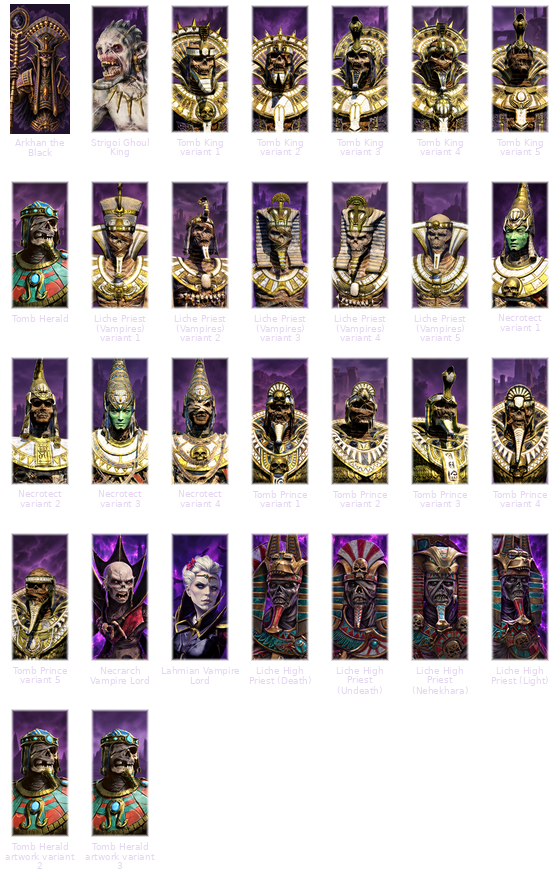
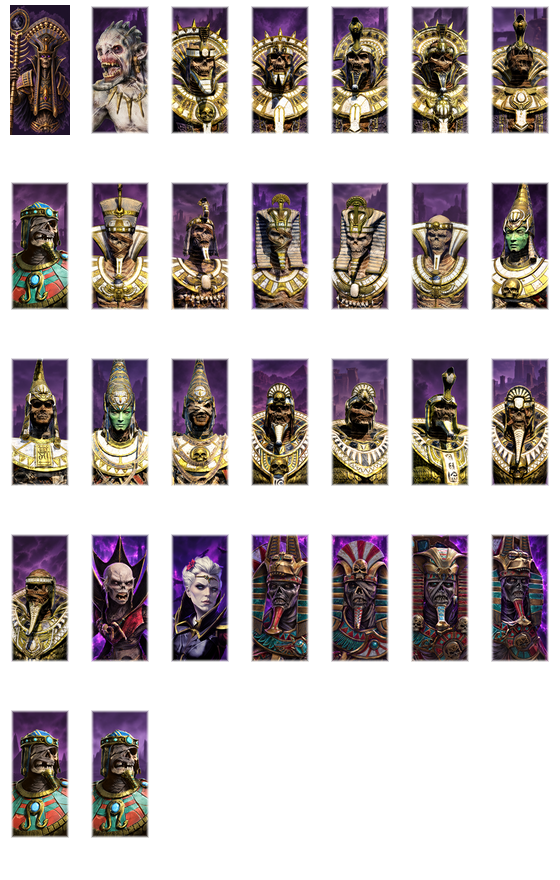
Refresh Workshop galleries with small feathered cards and clean character labels

diff --git a/README.md b/README.md
@@ -22,19 +22,19 @@ This mod adds new technologies, skills and abilities to Lords and Heroes. Arkhan
 
 ## Units
 
-<img src="https://raw.githubusercontent.com/Warhammer-Mods/arkhan_the_black_expanded/5f6be92313175cb45e61a36de331a2766873f757/ui/units/icons/xereus_tmb_inf_skeleton_warriors.png" alt="Skeleton Warriors" title="Skeleton Warriors" /><img src="https://raw.githubusercontent.com/Warhammer-Mods/arkhan_the_black_expanded/5f6be92313175cb45e61a36de331a2766873f757/ui/units/icons/xereus_tmb_inf_skeleton_spearmen.png" alt="Skeleton Spearmen" title="Skeleton Spearmen" /><img src="https://raw.githubusercontent.com/Warhammer-Mods/arkhan_the_black_expanded/5f6be92313175cb45e61a36de331a2766873f757/ui/units/icons/xereus_tmb_inf_skeleton_archers.png" alt="Skeleton Archers" title="Skeleton Archers" /><img src="https://raw.githubusercontent.com/Warhammer-Mods/arkhan_the_black_expanded/5f6be92313175cb45e61a36de331a2766873f757/ui/units/icons/xereus_tmb_inf_nehekhara_warriors.png" alt="Nehekhara Warriors" title="Nehekhara Warriors" /><img src="https://raw.githubusercontent.com/Warhammer-Mods/arkhan_the_black_expanded/5f6be92313175cb45e61a36de331a2766873f757/ui/units/icons/xereus_tmb_inf_tomb_guard.png" alt="Tomb Guard" title="Tomb Guard" /><img src="https://raw.githubusercontent.com/Warhammer-Mods/arkhan_the_black_expanded/5f6be92313175cb45e61a36de331a2766873f757/ui/units/icons/xereus_tmb_inf_tomb_guard_halberd.png" alt="Tomb Guard (Halberds)" title="Tomb Guard (Halberds)" /><img src="https://raw.githubusercontent.com/Warhammer-Mods/arkhan_the_black_expanded/5f6be92313175cb45e61a36de331a2766873f757/ui/units/icons/xereus_tmb_art_screaming_skull_catapult.png" alt="Screaming Skull Catapult" title="Screaming Skull Catapult" /><img src="https://raw.githubusercontent.com/Warhammer-Mods/arkhan_the_black_expanded/5f6be92313175cb45e61a36de331a2766873f757/ui/units/icons/xereus_tmb_mon_ushabti.png" alt="Ushabti" title="Ushabti" /><img src="https://raw.githubusercontent.com/Warhammer-Mods/arkhan_the_black_expanded/5f6be92313175cb45e61a36de331a2766873f757/ui/units/icons/xereus_tmb_mon_ushabti_great.png" alt="Ushabti (Great Bows)" title="Ushabti (Great Bows)" /><img src="https://raw.githubusercontent.com/Warhammer-Mods/arkhan_the_black_expanded/5f6be92313175cb45e61a36de331a2766873f757/ui/units/icons/xereus_tmb_cav_necropolis_knights_1.png" alt="Necropolis Knights" title="Necropolis Knights" /><img src="https://raw.githubusercontent.com/Warhammer-Mods/arkhan_the_black_expanded/5f6be92313175cb45e61a36de331a2766873f757/ui/units/icons/xereus_tmb_cav_necropolis_knights_2.png" alt="Necropolis Knights (Halberds)" title="Necropolis Knights (Halberds)" /><img src="https://raw.githubusercontent.com/Warhammer-Mods/arkhan_the_black_expanded/5f6be92313175cb45e61a36de331a2766873f757/ui/units/icons/xereus_tmb_mon_tomb_scorpion.png" alt="Tomb Scorpion" title="Tomb Scorpion" /><img src="https://raw.githubusercontent.com/Warhammer-Mods/arkhan_the_black_expanded/5f6be92313175cb45e61a36de331a2766873f757/ui/units/icons/xereus_tmb_mon_necrosphinx.png" alt="Necrosphinx" title="Necrosphinx" /><img src="https://raw.githubusercontent.com/Warhammer-Mods/arkhan_the_black_expanded/5f6be92313175cb45e61a36de331a2766873f757/ui/units/icons/xereus_tmb_mon_heirotitan.png" alt="Hierotitan" title="Hierotitan" /><img src="https://raw.githubusercontent.com/Warhammer-Mods/arkhan_the_black_expanded/5f6be92313175cb45e61a36de331a2766873f757/ui/units/icons/xereus_tmb_mon_khemrian_warsphinx.png" alt="Khemrian Warsphinx" title="Khemrian Warsphinx" /><img src="https://raw.githubusercontent.com/Warhammer-Mods/arkhan_the_black_expanded/5f6be92313175cb45e61a36de331a2766873f757/ui/units/icons/xereus_tmb_inf_grave_guard.png" alt="Grave Guard" title="Grave Guard" /><img src="https://raw.githubusercontent.com/Warhammer-Mods/arkhan_the_black_expanded/5f6be92313175cb45e61a36de331a2766873f757/ui/units/icons/xereus_tmb_inf_grave_guard_great.png" alt="Grave Guard (Great Weapons)" title="Grave Guard (Great Weapons)" /><img src="https://raw.githubusercontent.com/Warhammer-Mods/arkhan_the_black_expanded/5f6be92313175cb45e61a36de331a2766873f757/ui/units/icons/xereus_tmb_inf_nagashizzar_guard.png" alt="Nagashizzar Guard" title="Nagashizzar Guard" /><img src="https://raw.githubusercontent.com/Warhammer-Mods/arkhan_the_black_expanded/5f6be92313175cb45e61a36de331a2766873f757/ui/units/icons/wh2_dlc09_tmb_inf_cairn_wraiths.png" alt="Cairn Wraiths" title="Cairn Wraiths" /><img src="https://raw.githubusercontent.com/Warhammer-Mods/arkhan_the_black_expanded/5f6be92313175cb45e61a36de331a2766873f757/ui/units/icons/wh2_dlc09_tmb_cav_hexwraiths.png" alt="Hexwraiths" title="Hexwraiths" /><img src="https://raw.githubusercontent.com/Warhammer-Mods/arkhan_the_black_expanded/5f6be92313175cb45e61a36de331a2766873f757/ui/units/icons/xereus_tmb_veh_mortis_engine.png" alt="Mortis Engine" title="Mortis Engine" /><img src="https://raw.githubusercontent.com/Warhammer-Mods/arkhan_the_black_expanded/5f6be92313175cb45e61a36de331a2766873f757/ui/units/icons/wh2_dlc09_tmb_crypt_ghouls.png" alt="Crypt Ghouls" title="Crypt Ghouls" /><img src="https://raw.githubusercontent.com/Warhammer-Mods/arkhan_the_black_expanded/5f6be92313175cb45e61a36de331a2766873f757/ui/units/icons/wh2_dlc09_tmb_mon_crypt_horrors.png" alt="Crypt Horrors" title="Crypt Horrors" /><img src="https://raw.githubusercontent.com/Warhammer-Mods/arkhan_the_black_expanded/5f6be92313175cb45e61a36de331a2766873f757/ui/units/icons/wh2_dlc09_tmb_dire_wolves.png" alt="Dire Wolves" title="Dire Wolves" /><img src="https://raw.githubusercontent.com/Warhammer-Mods/arkhan_the_black_expanded/5f6be92313175cb45e61a36de331a2766873f757/ui/units/icons/wh2_dlc09_tmb_fell_bats.png" alt="Fell Bats" title="Fell Bats" /><img src="https://raw.githubusercontent.com/Warhammer-Mods/arkhan_the_black_expanded/5f6be92313175cb45e61a36de331a2766873f757/ui/units/icons/xereus_tmb_mon_terrorgheist.png" alt="Terrorgheist" title="Terrorgheist" /><img src="https://raw.githubusercontent.com/Warhammer-Mods/arkhan_the_black_expanded/5f6be92313175cb45e61a36de331a2766873f757/ui/units/icons/xereus_tmb_mon_zombie_dragon.png" alt="Zombie Dragon" title="Zombie Dragon" />
+<img src="https://raw.githubusercontent.com/Warhammer-Mods/arkhan_the_black_expanded/develop/docs/images/units/xereus_tmb_inf_skeleton_warriors.png" alt="Skeleton Warriors" title="Skeleton Warriors" /><img src="https://raw.githubusercontent.com/Warhammer-Mods/arkhan_the_black_expanded/develop/docs/images/units/xereus_tmb_inf_skeleton_spearmen.png" alt="Skeleton Spearmen" title="Skeleton Spearmen" /><img src="https://raw.githubusercontent.com/Warhammer-Mods/arkhan_the_black_expanded/develop/docs/images/units/xereus_tmb_inf_skeleton_archers.png" alt="Skeleton Archers" title="Skeleton Archers" /><img src="https://raw.githubusercontent.com/Warhammer-Mods/arkhan_the_black_expanded/develop/docs/images/units/xereus_tmb_inf_nehekhara_warriors.png" alt="Nehekhara Warriors" title="Nehekhara Warriors" /><img src="https://raw.githubusercontent.com/Warhammer-Mods/arkhan_the_black_expanded/develop/docs/images/units/xereus_tmb_inf_tomb_guard.png" alt="Tomb Guard" title="Tomb Guard" /><img src="https://raw.githubusercontent.com/Warhammer-Mods/arkhan_the_black_expanded/develop/docs/images/units/xereus_tmb_inf_tomb_guard_halberd.png" alt="Tomb Guard (Halberds)" title="Tomb Guard (Halberds)" /><img src="https://raw.githubusercontent.com/Warhammer-Mods/arkhan_the_black_expanded/develop/docs/images/units/xereus_tmb_art_screaming_skull_catapult.png" alt="Screaming Skull Catapult" title="Screaming Skull Catapult" /><img src="https://raw.githubusercontent.com/Warhammer-Mods/arkhan_the_black_expanded/develop/docs/images/units/xereus_tmb_mon_ushabti.png" alt="Ushabti" title="Ushabti" /><img src="https://raw.githubusercontent.com/Warhammer-Mods/arkhan_the_black_expanded/develop/docs/images/units/xereus_tmb_mon_ushabti_great.png" alt="Ushabti (Great Bows)" title="Ushabti (Great Bows)" /><img src="https://raw.githubusercontent.com/Warhammer-Mods/arkhan_the_black_expanded/develop/docs/images/units/xereus_tmb_cav_necropolis_knights_1.png" alt="Necropolis Knights" title="Necropolis Knights" /><img src="https://raw.githubusercontent.com/Warhammer-Mods/arkhan_the_black_expanded/develop/docs/images/units/xereus_tmb_cav_necropolis_knights_2.png" alt="Necropolis Knights (Halberds)" title="Necropolis Knights (Halberds)" /><img src="https://raw.githubusercontent.com/Warhammer-Mods/arkhan_the_black_expanded/develop/docs/images/units/xereus_tmb_mon_tomb_scorpion.png" alt="Tomb Scorpion" title="Tomb Scorpion" /><img src="https://raw.githubusercontent.com/Warhammer-Mods/arkhan_the_black_expanded/develop/docs/images/units/xereus_tmb_mon_necrosphinx.png" alt="Necrosphinx" title="Necrosphinx" /><img src="https://raw.githubusercontent.com/Warhammer-Mods/arkhan_the_black_expanded/develop/docs/images/units/xereus_tmb_mon_heirotitan.png" alt="Hierotitan" title="Hierotitan" /><img src="https://raw.githubusercontent.com/Warhammer-Mods/arkhan_the_black_expanded/develop/docs/images/units/xereus_tmb_mon_khemrian_warsphinx.png" alt="Khemrian Warsphinx" title="Khemrian Warsphinx" /><img src="https://raw.githubusercontent.com/Warhammer-Mods/arkhan_the_black_expanded/develop/docs/images/units/xereus_tmb_inf_grave_guard.png" alt="Grave Guard" title="Grave Guard" /><img src="https://raw.githubusercontent.com/Warhammer-Mods/arkhan_the_black_expanded/develop/docs/images/units/xereus_tmb_inf_grave_guard_great.png" alt="Grave Guard (Great Weapons)" title="Grave Guard (Great Weapons)" /><img src="https://raw.githubusercontent.com/Warhammer-Mods/arkhan_the_black_expanded/develop/docs/images/units/xereus_tmb_inf_nagashizzar_guard.png" alt="Nagashizzar Guard" title="Nagashizzar Guard" /><img src="https://raw.githubusercontent.com/Warhammer-Mods/arkhan_the_black_expanded/develop/docs/images/units/wh2_dlc09_tmb_inf_cairn_wraiths.png" alt="Cairn Wraiths" title="Cairn Wraiths" /><img src="https://raw.githubusercontent.com/Warhammer-Mods/arkhan_the_black_expanded/develop/docs/images/units/wh2_dlc09_tmb_cav_hexwraiths.png" alt="Hexwraiths" title="Hexwraiths" /><img src="https://raw.githubusercontent.com/Warhammer-Mods/arkhan_the_black_expanded/develop/docs/images/units/xereus_tmb_veh_mortis_engine.png" alt="Mortis Engine" title="Mortis Engine" /><img src="https://raw.githubusercontent.com/Warhammer-Mods/arkhan_the_black_expanded/develop/docs/images/units/wh2_dlc09_tmb_crypt_ghouls.png" alt="Crypt Ghouls" title="Crypt Ghouls" /><img src="https://raw.githubusercontent.com/Warhammer-Mods/arkhan_the_black_expanded/develop/docs/images/units/wh2_dlc09_tmb_mon_crypt_horrors.png" alt="Crypt Horrors" title="Crypt Horrors" /><img src="https://raw.githubusercontent.com/Warhammer-Mods/arkhan_the_black_expanded/develop/docs/images/units/wh2_dlc09_tmb_dire_wolves.png" alt="Dire Wolves" title="Dire Wolves" /><img src="https://raw.githubusercontent.com/Warhammer-Mods/arkhan_the_black_expanded/develop/docs/images/units/wh2_dlc09_tmb_fell_bats.png" alt="Fell Bats" title="Fell Bats" /><img src="https://raw.githubusercontent.com/Warhammer-Mods/arkhan_the_black_expanded/develop/docs/images/units/xereus_tmb_mon_terrorgheist.png" alt="Terrorgheist" title="Terrorgheist" /><img src="https://raw.githubusercontent.com/Warhammer-Mods/arkhan_the_black_expanded/develop/docs/images/units/xereus_tmb_mon_zombie_dragon.png" alt="Zombie Dragon" title="Zombie Dragon" />
 
 ## Expanded unit gallery
 
 Additional cards from the current mod include Spirit Hosts, Morghast Archai, Morghast Harbingers, Carrion, Casket of Souls, Nehekhara Horsemen, Skeleton Horse Archers, Wights of Stonewrath Tarn (Grave Guard), Zombies, Bone Giant, Khemric Titan, Sepulchral Stalkers, Skeleton Chariots, Skeleton Archer Chariots, Skeleton Horsemen. Some cards are for summoned units; recruitment and access follow their in-game requirements.
 
-<img src="https://raw.githubusercontent.com/Warhammer-Mods/arkhan_the_black_expanded/5f6be92313175cb45e61a36de331a2766873f757/ui/units/icons/wh2_dlc09_tmb_inf_spirit_host.png" alt="Spirit Hosts" title="Spirit Hosts" /><img src="https://raw.githubusercontent.com/Warhammer-Mods/arkhan_the_black_expanded/5f6be92313175cb45e61a36de331a2766873f757/ui/units/icons/wh2_dlc09_tmb_mon_morghast_archai.png" alt="Morghast Archai" title="Morghast Archai" /><img src="https://raw.githubusercontent.com/Warhammer-Mods/arkhan_the_black_expanded/5f6be92313175cb45e61a36de331a2766873f757/ui/units/icons/wh2_dlc09_tmb_mon_morghast_harbingers.png" alt="Morghast Harbingers" title="Morghast Harbingers" /><img src="https://raw.githubusercontent.com/Warhammer-Mods/arkhan_the_black_expanded/5f6be92313175cb45e61a36de331a2766873f757/ui/units/icons/xereus_tmb_carrion.png" alt="Carrion" title="Carrion" /><img src="https://raw.githubusercontent.com/Warhammer-Mods/arkhan_the_black_expanded/5f6be92313175cb45e61a36de331a2766873f757/ui/units/icons/xereus_tmb_casket_souls.png" alt="Casket of Souls" title="Casket of Souls" /><img src="https://raw.githubusercontent.com/Warhammer-Mods/arkhan_the_black_expanded/5f6be92313175cb45e61a36de331a2766873f757/ui/units/icons/xereus_tmb_cav_nehekhara_horsemen.png" alt="Nehekhara Horsemen" title="Nehekhara Horsemen" /><img src="https://raw.githubusercontent.com/Warhammer-Mods/arkhan_the_black_expanded/5f6be92313175cb45e61a36de331a2766873f757/ui/units/icons/xereus_tmb_cav_skeleton_horsemen_archers.png" alt="Skeleton Horse Archers" title="Skeleton Horse Archers" /><img src="https://raw.githubusercontent.com/Warhammer-Mods/arkhan_the_black_expanded/e1755d248bcd96b63e13645d0c4f5e723f5ce75a/ui/units/icons/xereus_tmb_inf_stonewrath_guard.png" alt="Wights of Stonewrath Tarn (Grave Guard)" title="Wights of Stonewrath Tarn (Grave Guard)" /><img src="https://raw.githubusercontent.com/Warhammer-Mods/arkhan_the_black_expanded/5f6be92313175cb45e61a36de331a2766873f757/ui/units/icons/xereus_tmb_inf_zmb.png" alt="Zombies" title="Zombies" /><img src="https://raw.githubusercontent.com/Warhammer-Mods/arkhan_the_black_expanded/5f6be92313175cb45e61a36de331a2766873f757/ui/units/icons/xereus_tmb_mon_bone_giant.png" alt="Bone Giant" title="Bone Giant" /><img src="https://raw.githubusercontent.com/Warhammer-Mods/arkhan_the_black_expanded/5f6be92313175cb45e61a36de331a2766873f757/ui/units/icons/xereus_tmb_mon_khemric_titan.png" alt="Khemric Titan" title="Khemric Titan" /><img src="https://raw.githubusercontent.com/Warhammer-Mods/arkhan_the_black_expanded/5f6be92313175cb45e61a36de331a2766873f757/ui/units/icons/xereus_tmb_mon_sepulchral_stalkers.png" alt="Sepulchral Stalkers" title="Sepulchral Stalkers" /><img src="https://raw.githubusercontent.com/Warhammer-Mods/arkhan_the_black_expanded/5f6be92313175cb45e61a36de331a2766873f757/ui/units/icons/xereus_tmb_skeleton_chariot.png" alt="Skeleton Chariots" title="Skeleton Chariots" /><img src="https://raw.githubusercontent.com/Warhammer-Mods/arkhan_the_black_expanded/5f6be92313175cb45e61a36de331a2766873f757/ui/units/icons/xereus_tmb_skeleton_chariot_archers.png" alt="Skeleton Archer Chariots" title="Skeleton Archer Chariots" /><img src="https://raw.githubusercontent.com/Warhammer-Mods/arkhan_the_black_expanded/5f6be92313175cb45e61a36de331a2766873f757/ui/units/icons/xereus_tmb_skeleton_horsemen.png" alt="Skeleton Horsemen" title="Skeleton Horsemen" />
+<img src="https://raw.githubusercontent.com/Warhammer-Mods/arkhan_the_black_expanded/develop/docs/images/units/wh2_dlc09_tmb_inf_spirit_host.png" alt="Spirit Hosts" title="Spirit Hosts" /><img src="https://raw.githubusercontent.com/Warhammer-Mods/arkhan_the_black_expanded/develop/docs/images/units/wh2_dlc09_tmb_mon_morghast_archai.png" alt="Morghast Archai" title="Morghast Archai" /><img src="https://raw.githubusercontent.com/Warhammer-Mods/arkhan_the_black_expanded/develop/docs/images/units/wh2_dlc09_tmb_mon_morghast_harbingers.png" alt="Morghast Harbingers" title="Morghast Harbingers" /><img src="https://raw.githubusercontent.com/Warhammer-Mods/arkhan_the_black_expanded/develop/docs/images/units/xereus_tmb_carrion.png" alt="Carrion" title="Carrion" /><img src="https://raw.githubusercontent.com/Warhammer-Mods/arkhan_the_black_expanded/develop/docs/images/units/xereus_tmb_casket_souls.png" alt="Casket of Souls" title="Casket of Souls" /><img src="https://raw.githubusercontent.com/Warhammer-Mods/arkhan_the_black_expanded/develop/docs/images/units/xereus_tmb_cav_nehekhara_horsemen.png" alt="Nehekhara Horsemen" title="Nehekhara Horsemen" /><img src="https://raw.githubusercontent.com/Warhammer-Mods/arkhan_the_black_expanded/develop/docs/images/units/xereus_tmb_cav_skeleton_horsemen_archers.png" alt="Skeleton Horse Archers" title="Skeleton Horse Archers" /><img src="https://raw.githubusercontent.com/Warhammer-Mods/arkhan_the_black_expanded/develop/docs/images/units/xereus_tmb_inf_stonewrath_guard.png" alt="Wights of Stonewrath Tarn (Grave Guard)" title="Wights of Stonewrath Tarn (Grave Guard)" /><img src="https://raw.githubusercontent.com/Warhammer-Mods/arkhan_the_black_expanded/develop/docs/images/units/xereus_tmb_inf_zmb.png" alt="Zombies" title="Zombies" /><img src="https://raw.githubusercontent.com/Warhammer-Mods/arkhan_the_black_expanded/develop/docs/images/units/xereus_tmb_mon_bone_giant.png" alt="Bone Giant" title="Bone Giant" /><img src="https://raw.githubusercontent.com/Warhammer-Mods/arkhan_the_black_expanded/develop/docs/images/units/xereus_tmb_mon_khemric_titan.png" alt="Khemric Titan" title="Khemric Titan" /><img src="https://raw.githubusercontent.com/Warhammer-Mods/arkhan_the_black_expanded/develop/docs/images/units/xereus_tmb_mon_sepulchral_stalkers.png" alt="Sepulchral Stalkers" title="Sepulchral Stalkers" /><img src="https://raw.githubusercontent.com/Warhammer-Mods/arkhan_the_black_expanded/develop/docs/images/units/xereus_tmb_skeleton_chariot.png" alt="Skeleton Chariots" title="Skeleton Chariots" /><img src="https://raw.githubusercontent.com/Warhammer-Mods/arkhan_the_black_expanded/develop/docs/images/units/xereus_tmb_skeleton_chariot_archers.png" alt="Skeleton Archer Chariots" title="Skeleton Archer Chariots" /><img src="https://raw.githubusercontent.com/Warhammer-Mods/arkhan_the_black_expanded/develop/docs/images/units/xereus_tmb_skeleton_horsemen.png" alt="Skeleton Horsemen" title="Skeleton Horsemen" />
 
 ## Lords and Heroes
 
-The current character gallery includes Arkhan the Black, Tomb King variants, a Strigoi Ghoul King, Necrarch and Lahmian Vampire Lords, Liche High Priests, Liche Priests, Tomb Princes, Necrotects and the custom Tomb Herald. Variant cards represent different appearances, rather than separate hero classes.
+The current character gallery includes Arkhan the Black, Tomb Kings, a Strigoi Ghoul King, Necrarch and Lahmian Vampire Lords, Liche High Priests, Liche Priests, Tomb Princes, Necrotects and the custom Tomb Herald.
 
-<img src="https://raw.githubusercontent.com/Warhammer-Mods/arkhan_the_black_expanded/develop/docs/images/characters/arkhan_the_black.png" alt="Arkhan the Black" title="Arkhan the Black" /><img src="https://raw.githubusercontent.com/Warhammer-Mods/arkhan_the_black_expanded/develop/docs/images/characters/stephen_ch_ghoul_king_campaign_01.png" alt="Strigoi Ghoul King" title="Strigoi Ghoul King" /><img src="https://raw.githubusercontent.com/Warhammer-Mods/arkhan_the_black_expanded/develop/docs/images/characters/stephen_ch_tomb_king_campaign_01_0.png" alt="Tomb King variant 1" title="Tomb King variant 1" /><img src="https://raw.githubusercontent.com/Warhammer-Mods/arkhan_the_black_expanded/develop/docs/images/characters/stephen_ch_tomb_king_campaign_02_0.png" alt="Tomb King variant 2" title="Tomb King variant 2" /><img src="https://raw.githubusercontent.com/Warhammer-Mods/arkhan_the_black_expanded/develop/docs/images/characters/stephen_ch_tomb_king_campaign_03_0.png" alt="Tomb King variant 3" title="Tomb King variant 3" /><img src="https://raw.githubusercontent.com/Warhammer-Mods/arkhan_the_black_expanded/develop/docs/images/characters/stephen_ch_tomb_king_campaign_04_0.png" alt="Tomb King variant 4" title="Tomb King variant 4" /><img src="https://raw.githubusercontent.com/Warhammer-Mods/arkhan_the_black_expanded/develop/docs/images/characters/stephen_ch_tomb_king_campaign_05_0.png" alt="Tomb King variant 5" title="Tomb King variant 5" /><img src="https://raw.githubusercontent.com/Warhammer-Mods/arkhan_the_black_expanded/develop/docs/images/characters/stephen_tmb_cha_tomb_herald.png" alt="Tomb Herald" title="Tomb Herald" /><img src="https://raw.githubusercontent.com/Warhammer-Mods/arkhan_the_black_expanded/develop/docs/images/characters/tmb_cha_liche_priest_vampire_1.png" alt="Liche Priest (Vampires) variant 1" title="Liche Priest (Vampires) variant 1" /><img src="https://raw.githubusercontent.com/Warhammer-Mods/arkhan_the_black_expanded/develop/docs/images/characters/tmb_cha_liche_priest_vampire_2.png" alt="Liche Priest (Vampires) variant 2" title="Liche Priest (Vampires) variant 2" /><img src="https://raw.githubusercontent.com/Warhammer-Mods/arkhan_the_black_expanded/develop/docs/images/characters/tmb_cha_liche_priest_vampire_3.png" alt="Liche Priest (Vampires) variant 3" title="Liche Priest (Vampires) variant 3" /><img src="https://raw.githubusercontent.com/Warhammer-Mods/arkhan_the_black_expanded/develop/docs/images/characters/tmb_cha_liche_priest_vampire_4.png" alt="Liche Priest (Vampires) variant 4" title="Liche Priest (Vampires) variant 4" /><img src="https://raw.githubusercontent.com/Warhammer-Mods/arkhan_the_black_expanded/develop/docs/images/characters/tmb_cha_liche_priest_vampire_5.png" alt="Liche Priest (Vampires) variant 5" title="Liche Priest (Vampires) variant 5" /><img src="https://raw.githubusercontent.com/Warhammer-Mods/arkhan_the_black_expanded/develop/docs/images/characters/tmb_cha_necrotect_1.png" alt="Necrotect variant 1" title="Necrotect variant 1" /><img src="https://raw.githubusercontent.com/Warhammer-Mods/arkhan_the_black_expanded/develop/docs/images/characters/tmb_cha_necrotect_2.png" alt="Necrotect variant 2" title="Necrotect variant 2" /><img src="https://raw.githubusercontent.com/Warhammer-Mods/arkhan_the_black_expanded/develop/docs/images/characters/tmb_cha_necrotect_3.png" alt="Necrotect variant 3" title="Necrotect variant 3" /><img src="https://raw.githubusercontent.com/Warhammer-Mods/arkhan_the_black_expanded/develop/docs/images/characters/tmb_cha_necrotect_4.png" alt="Necrotect variant 4" title="Necrotect variant 4" /><img src="https://raw.githubusercontent.com/Warhammer-Mods/arkhan_the_black_expanded/develop/docs/images/characters/tmb_cha_tomb_prince_1.png" alt="Tomb Prince variant 1" title="Tomb Prince variant 1" /><img src="https://raw.githubusercontent.com/Warhammer-Mods/arkhan_the_black_expanded/develop/docs/images/characters/tmb_cha_tomb_prince_2.png" alt="Tomb Prince variant 2" title="Tomb Prince variant 2" /><img src="https://raw.githubusercontent.com/Warhammer-Mods/arkhan_the_black_expanded/develop/docs/images/characters/tmb_cha_tomb_prince_3.png" alt="Tomb Prince variant 3" title="Tomb Prince variant 3" /><img src="https://raw.githubusercontent.com/Warhammer-Mods/arkhan_the_black_expanded/develop/docs/images/characters/tmb_cha_tomb_prince_4.png" alt="Tomb Prince variant 4" title="Tomb Prince variant 4" /><img src="https://raw.githubusercontent.com/Warhammer-Mods/arkhan_the_black_expanded/develop/docs/images/characters/tmb_cha_tomb_prince_5.png" alt="Tomb Prince variant 5" title="Tomb Prince variant 5" /><img src="https://raw.githubusercontent.com/Warhammer-Mods/arkhan_the_black_expanded/develop/docs/images/characters/arkhan_necrarch_vampire_lord.png" alt="Necrarch Vampire Lord" title="Necrarch Vampire Lord" /><img src="https://raw.githubusercontent.com/Warhammer-Mods/arkhan_the_black_expanded/develop/docs/images/characters/arkhan_lahmian_vampire_lord.png" alt="Lahmian Vampire Lord" title="Lahmian Vampire Lord" /><img src="https://raw.githubusercontent.com/Warhammer-Mods/arkhan_the_black_expanded/develop/docs/images/characters/arkhan_liche_high_priest_death.png" alt="Liche High Priest (Death)" title="Liche High Priest (Death)" /><img src="https://raw.githubusercontent.com/Warhammer-Mods/arkhan_the_black_expanded/develop/docs/images/characters/arkhan_liche_high_priest_undeath.png" alt="Liche High Priest (Undeath)" title="Liche High Priest (Undeath)" /><img src="https://raw.githubusercontent.com/Warhammer-Mods/arkhan_the_black_expanded/develop/docs/images/characters/arkhan_liche_high_priest_nehekhara.png" alt="Liche High Priest (Nehekhara)" title="Liche High Priest (Nehekhara)" /><img src="https://raw.githubusercontent.com/Warhammer-Mods/arkhan_the_black_expanded/develop/docs/images/characters/arkhan_liche_high_priest_light.png" alt="Liche High Priest (Light)" title="Liche High Priest (Light)" /><img src="https://raw.githubusercontent.com/Warhammer-Mods/arkhan_the_black_expanded/develop/docs/images/characters/arkhan_tomb_herald_variant_2.png" alt="Tomb Herald artwork variant 2" title="Tomb Herald artwork variant 2" /><img src="https://raw.githubusercontent.com/Warhammer-Mods/arkhan_the_black_expanded/develop/docs/images/characters/arkhan_tomb_herald_variant_3.png" alt="Tomb Herald artwork variant 3" title="Tomb Herald artwork variant 3" />
+<img src="https://raw.githubusercontent.com/Warhammer-Mods/arkhan_the_black_expanded/develop/docs/images/characters/arkhan_the_black.png" alt="Arkhan the Black" title="Arkhan the Black" /><img src="https://raw.githubusercontent.com/Warhammer-Mods/arkhan_the_black_expanded/develop/docs/images/characters/stephen_ch_ghoul_king_campaign_01.png" alt="Strigoi Ghoul King" title="Strigoi Ghoul King" /><img src="https://raw.githubusercontent.com/Warhammer-Mods/arkhan_the_black_expanded/develop/docs/images/characters/stephen_ch_tomb_king_campaign_01_0.png" alt="Tomb King" title="Tomb King" /><img src="https://raw.githubusercontent.com/Warhammer-Mods/arkhan_the_black_expanded/develop/docs/images/characters/stephen_ch_tomb_king_campaign_02_0.png" alt="Tomb King" title="Tomb King" /><img src="https://raw.githubusercontent.com/Warhammer-Mods/arkhan_the_black_expanded/develop/docs/images/characters/stephen_ch_tomb_king_campaign_03_0.png" alt="Tomb King" title="Tomb King" /><img src="https://raw.githubusercontent.com/Warhammer-Mods/arkhan_the_black_expanded/develop/docs/images/characters/stephen_ch_tomb_king_campaign_04_0.png" alt="Tomb King" title="Tomb King" /><img src="https://raw.githubusercontent.com/Warhammer-Mods/arkhan_the_black_expanded/develop/docs/images/characters/stephen_ch_tomb_king_campaign_05_0.png" alt="Tomb King" title="Tomb King" /><img src="https://raw.githubusercontent.com/Warhammer-Mods/arkhan_the_black_expanded/develop/docs/images/characters/stephen_tmb_cha_tomb_herald.png" alt="Tomb Herald" title="Tomb Herald" /><img src="https://raw.githubusercontent.com/Warhammer-Mods/arkhan_the_black_expanded/develop/docs/images/characters/tmb_cha_liche_priest_vampire_1.png" alt="Liche Priest (Vampires)" title="Liche Priest (Vampires)" /><img src="https://raw.githubusercontent.com/Warhammer-Mods/arkhan_the_black_expanded/develop/docs/images/characters/tmb_cha_liche_priest_vampire_2.png" alt="Liche Priest (Vampires)" title="Liche Priest (Vampires)" /><img src="https://raw.githubusercontent.com/Warhammer-Mods/arkhan_the_black_expanded/develop/docs/images/characters/tmb_cha_liche_priest_vampire_3.png" alt="Liche Priest (Vampires)" title="Liche Priest (Vampires)" /><img src="https://raw.githubusercontent.com/Warhammer-Mods/arkhan_the_black_expanded/develop/docs/images/characters/tmb_cha_liche_priest_vampire_4.png" alt="Liche Priest (Vampires)" title="Liche Priest (Vampires)" /><img src="https://raw.githubusercontent.com/Warhammer-Mods/arkhan_the_black_expanded/develop/docs/images/characters/tmb_cha_liche_priest_vampire_5.png" alt="Liche Priest (Vampires)" title="Liche Priest (Vampires)" /><img src="https://raw.githubusercontent.com/Warhammer-Mods/arkhan_the_black_expanded/develop/docs/images/characters/tmb_cha_necrotect_1.png" alt="Necrotect" title="Necrotect" /><img src="https://raw.githubusercontent.com/Warhammer-Mods/arkhan_the_black_expanded/develop/docs/images/characters/tmb_cha_necrotect_2.png" alt="Necrotect" title="Necrotect" /><img src="https://raw.githubusercontent.com/Warhammer-Mods/arkhan_the_black_expanded/develop/docs/images/characters/tmb_cha_necrotect_3.png" alt="Necrotect" title="Necrotect" /><img src="https://raw.githubusercontent.com/Warhammer-Mods/arkhan_the_black_expanded/develop/docs/images/characters/tmb_cha_necrotect_4.png" alt="Necrotect" title="Necrotect" /><img src="https://raw.githubusercontent.com/Warhammer-Mods/arkhan_the_black_expanded/develop/docs/images/characters/tmb_cha_tomb_prince_1.png" alt="Tomb Prince" title="Tomb Prince" /><img src="https://raw.githubusercontent.com/Warhammer-Mods/arkhan_the_black_expanded/develop/docs/images/characters/tmb_cha_tomb_prince_2.png" alt="Tomb Prince" title="Tomb Prince" /><img src="https://raw.githubusercontent.com/Warhammer-Mods/arkhan_the_black_expanded/develop/docs/images/characters/tmb_cha_tomb_prince_3.png" alt="Tomb Prince" title="Tomb Prince" /><img src="https://raw.githubusercontent.com/Warhammer-Mods/arkhan_the_black_expanded/develop/docs/images/characters/tmb_cha_tomb_prince_4.png" alt="Tomb Prince" title="Tomb Prince" /><img src="https://raw.githubusercontent.com/Warhammer-Mods/arkhan_the_black_expanded/develop/docs/images/characters/tmb_cha_tomb_prince_5.png" alt="Tomb Prince" title="Tomb Prince" /><img src="https://raw.githubusercontent.com/Warhammer-Mods/arkhan_the_black_expanded/develop/docs/images/characters/arkhan_necrarch_vampire_lord.png" alt="Necrarch Vampire Lord" title="Necrarch Vampire Lord" /><img src="https://raw.githubusercontent.com/Warhammer-Mods/arkhan_the_black_expanded/develop/docs/images/characters/arkhan_lahmian_vampire_lord.png" alt="Lahmian Vampire Lord" title="Lahmian Vampire Lord" /><img src="https://raw.githubusercontent.com/Warhammer-Mods/arkhan_the_black_expanded/develop/docs/images/characters/arkhan_liche_high_priest_death.png" alt="Liche High Priest (Death)" title="Liche High Priest (Death)" /><img src="https://raw.githubusercontent.com/Warhammer-Mods/arkhan_the_black_expanded/develop/docs/images/characters/arkhan_liche_high_priest_undeath.png" alt="Liche High Priest (Undeath)" title="Liche High Priest (Undeath)" /><img src="https://raw.githubusercontent.com/Warhammer-Mods/arkhan_the_black_expanded/develop/docs/images/characters/arkhan_liche_high_priest_nehekhara.png" alt="Liche High Priest (Nehekhara)" title="Liche High Priest (Nehekhara)" /><img src="https://raw.githubusercontent.com/Warhammer-Mods/arkhan_the_black_expanded/develop/docs/images/characters/arkhan_liche_high_priest_light.png" alt="Liche High Priest (Light)" title="Liche High Priest (Light)" /><img src="https://raw.githubusercontent.com/Warhammer-Mods/arkhan_the_black_expanded/develop/docs/images/characters/arkhan_tomb_herald_variant_2.png" alt="Tomb Herald" title="Tomb Herald" /><img src="https://raw.githubusercontent.com/Warhammer-Mods/arkhan_the_black_expanded/develop/docs/images/characters/arkhan_tomb_herald_variant_3.png" alt="Tomb Herald" title="Tomb Herald" />
 
 Additional Tomb Herald cards are included as alternative artwork; the existing in-game card assignment is retained.
 
@@ -70,10 +70,11 @@ Import the source with RPFM configured for Total War: Warhammer III. Download au
 
 Local validation covers pack integrity, source-table round trips, resource/cost links, UI XML, Lua syntax, separate-pool migration and save-load refresh. The starting-hero replacement has been confirmed in game; the level-one adjustment and multiplayer behaviour still need an in-game check. Campaign changes do not depend on local UI/player state, but multiplayer desynchronisation safety is not yet confirmed.
 
-The complete, ready-to-paste Steam Workshop description (including Khemric Titan and Spirit Hosts, with a transparent Lords and Heroes gallery) is maintained in [docs/steam-workshop-description.txt](docs/steam-workshop-description.txt).
+The complete, ready-to-paste Steam Workshop description (including Khemric Titan and Spirit Hosts, with small feathered unit cards and a Lords and Heroes gallery) is maintained in [docs/steam-workshop-description.txt](docs/steam-workshop-description.txt).
 
 Separate [2× unit-card PNGs](docs/downloads/arkhan_unit_cards_2x.zip) are available at 120×260, with the transparent edges from the supplied reference. The larger cards are also included under `ui/units/infopics`, using matching unit filenames. The files in `ui/units/icons` keep their current size and edges.
 
 ## Optional test add-ons
 
-[Black Arts](submods/arkhan_black_arts/README.md) adds energy-funded research and a recurring rite. Build it separately with the **Build Black Arts add-on** workflow. Technology layout, regional research costs, TKE compatibility and multiplayer require in-game testing.
+[Black Arts](submods/arkhan_black_arts/README.md) adds energy-funded research and a recurring rite. Its separate test pack is built by the **Build main mod and submods** workflow. Technology layout, regional research costs, TKE compatibility and multiplayer require in-game testing.
+
